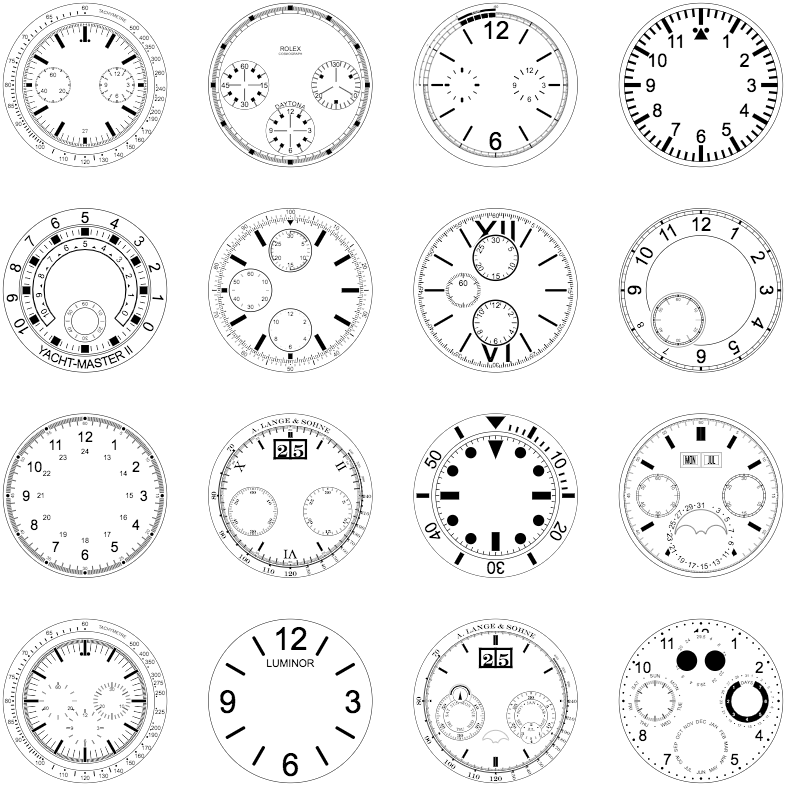
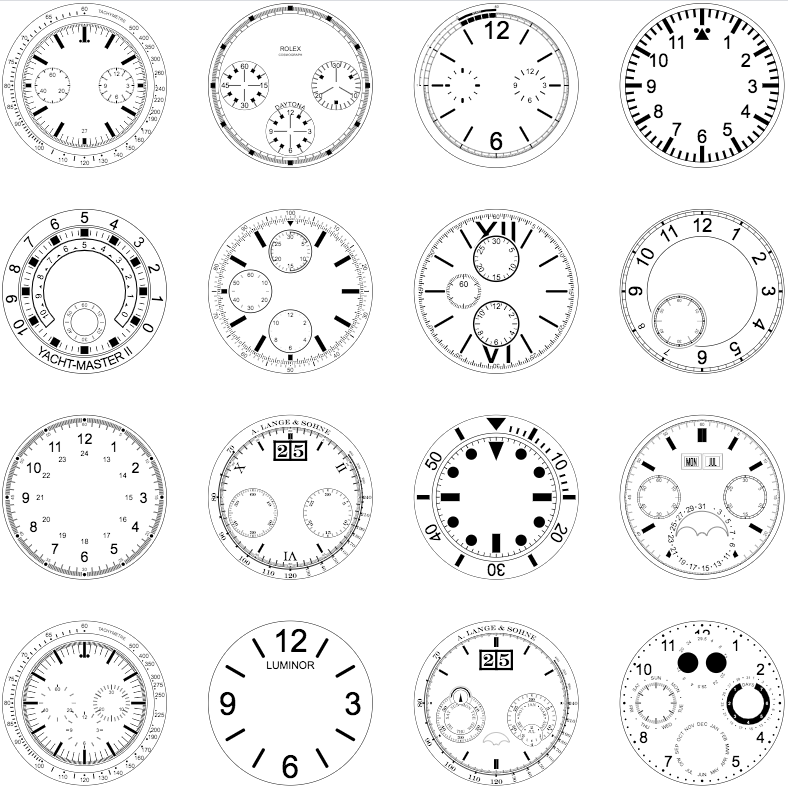
Fixed Lange dates

diff --git a/src/svg.py b/src/svg.py
@@ -202,16 +202,16 @@ def get_lange_date(prms):
     line_5 = _get_line(width / 2 - line_width / 2, -height / 2,
                        width / 2 - line_width / 2, height / 2, line_width,
                        'black')
-    num_1 = get_lange_number(text='2', x=text_1x, size=text_size)
-    num_2 = get_lange_number(text='5', x=text_2x, size=text_size)
+    num_1 = get_lange_number(text='2', x=text_1x, size=text_size, height=height)
+    num_2 = get_lange_number(text='5', x=text_2x, size=text_size, height=height)
     pos = get_point(prms.fi, prms.r - height / 2)
     return f'<g transform="translate({pos.x}, {pos.y})">{surface}{line_1}' \
            f'{line_2}{line_3}{line_4}{line_5}{num_1}{num_2}</g>'
 
 
-def get_lange_number(text, x, size):
-    return _get_text(text=text, point=get_point_xy(x, 0), size=size, rotation=0,
-                     color='black', weight='', font='lange_thin')
+def get_lange_number(text, x, size, height):
+    return _get_text(text=text, point=get_point_xy(x, -height*0.065), size=size, 
+                     rotation=0, color='black', weight='', font='lange_thin')
 
 
 def get_patek_date(prms):
